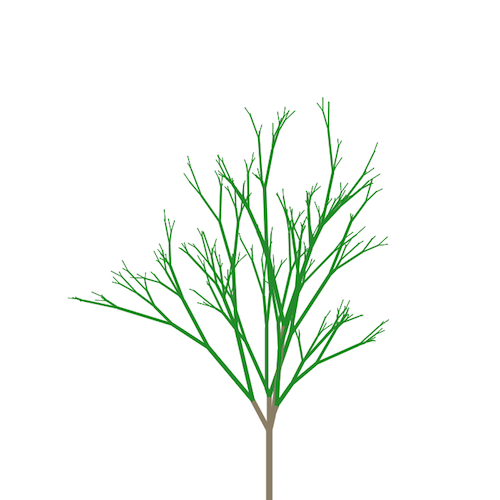
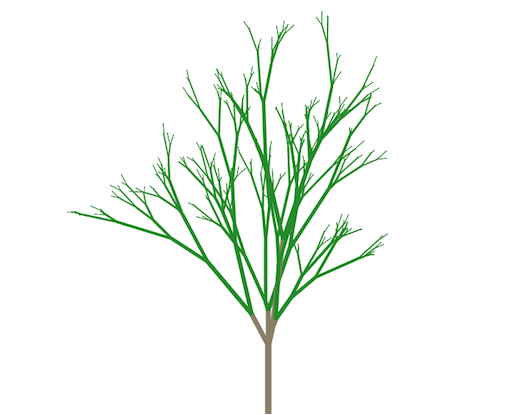
Version 1.0 complete; added notifications, working timer, event handling, and images.

Changed region(s): [[0.12, 0.0289, 0.78, 1.0], [0.75, 0.6361, 0.78, 0.6651], [0.45, 0.0578, 0.48, 0.0867]]

diff --git a/treetime_timer.js b/treetime_timer.js
@@ -1,0 +1,52 @@
+var timeInterval;
+
+function beginTimerFunction(){
+	setTimeout(startTimer() );
+}
+
+function startTimer() {
+	// processedStepValue is the number of minutes timer runs for
+	// p id = "timer" is the display the timer will be on
+
+	$(treeDeadImage).hide();
+	$(timerDial).fadeOut(1000);
+	$(responsive).delay(1000).fadeIn(1000);
+	$(timerTreeDisplayText).delay(1000).fadeIn(1000);
+	$(timerTreeDisplayTimer).delay(1000).fadeIn(1000);
+	$(treeAliveImage).delay(1000).fadeIn(1000);
+
+
+	console.log(processedStepValue);
+
+	var duration = processedStepValue * 60;
+
+    var timerNotification = new Notification('Timer started', {
+    	body: "It's treetime! Get to work!",
+    	icon: 'tree_alive.png'
+    });
+
+    window.addEventListener(visibilityChange, handleVisibilityChange, false);
+
+
+    var timer = duration, minutes, seconds;
+    
+    var timerDisplay = document.getElementById("timer");
+
+    timeInterval = setInterval(function () {
+        minutes = parseInt(timer / 60, 10)
+        seconds = parseInt(timer % 60, 10);
+
+        minutes = minutes < 10 ? "0" + minutes : minutes;
+        seconds = seconds < 10 ? "0" + seconds : seconds;
+        timerDisplay.innerHTML = minutes + ":" + seconds;
+
+        if (--timer < 0) {
+            var removeTimerNotification = new Notification('Timer finished', {
+            	body: "Your tree survived!",
+            	icon: 'tree_alive.png'
+            });
+            resetTimer();
+        }
+    }, 1000);
+
+}

diff --git a/treetime_notifications.js b/treetime_notifications.js
@@ -1,0 +1,59 @@
+var hidden = "hidden";
+var visibilityChange = "visibilitychange";
+// need to add in handlers for hidden and visibilityChange for different browsers
+
+window.onload = function() {
+	Notification.requestPermission();
+}
+
+function runKillTreeTimer(setSystemTime) {
+	var numberOfSecondsToWait = 5; // wait 5 seconds for user to come back to page before killing tree
+	
+	setTimeout(function() {
+		if(document[hidden]){
+
+			$(treeAliveImage).delay(2000).fadeOut(1000);
+			$(treeDeadImage).delay(2000).fadeIn(1000);
+
+
+			var treeKilledNotification = new Notification('Your tree died. Sorry!', {
+				body: "Better luck next time!",
+				icon: "tree_dead.png"
+			});
+			resetTimer();
+		} else {
+		}
+	}, numberOfSecondsToWait * 1000);
+
+}
+
+function resetTimer(){
+	clearInterval(timeInterval);
+
+
+
+	window.removeEventListener(visibilityChange, handleVisibilityChange, false);
+
+	$(responsive).delay(5000).fadeOut();
+	$(timerTreeDisplayText).delay(5000).fadeOut();
+	$(timerTreeDisplayTimer).delay(5000).fadeOut();
+	$(timerDial).delay(5000).fadeIn();
+}
+
+function handleVisibilityChange(){
+	if(document[hidden]) {
+		calledHandler = true;
+		var notification = new Notification('Save your tree!', {
+			body: "Switch back to this page to prevent your tree from dying!",
+			icon: "tree_alive.png"
+		});
+		notification.onclick = function() {
+			window.focus();
+			this.cancel();
+		};
+		runKillTreeTimer();
+	} else {
+		calledHandler = false;
+	}
+	
+}

diff --git a/index.html b/index.html
@@ -12,20 +12,33 @@
 	<div id = "timerDial">
 		<p id = "timerDialHelpfulText">Set the time:</p>
 		<input type="text" value="10" class="dial">
-		<p id = "timerDialDisplay">00:00</p>
-		<button id = "setTimerButton">Set Time</button>
+		<p id = "timerDialDisplay">15:00</p>
+		<button id = "setTimerButton" onclick = "beginTimerFunction()">Set Time</button>
 	</div>
 
-	<div id = "timerTreeDisplay">
-		<img src = "tree_alive.png" id = "treeAliveImage">
-		<img src = "tree_dead.png" id = "treeDeadImage">
-		<button id = "showTreesButton">click to show trees</button>
+	<div id = "timerTreeDisplayText">
+		<p>Stay on this page to avoid killing the tree!</p>
 	</div>
-	
+
+	<div class = "responsive" id = "responsive">
+		<div class = "img-container">
+			<img src = "tree_alive.png" id = "treeAliveImage">
+			<img src = "tree_dead.png" id = "treeDeadImage">
+		</div>	
+	</div>
+
+	<div id = "timerTreeDisplayTimer">
+		<p id = "timer">TEST</p>
+	</div>
+
+
+
 	<script src = "http://ajax.googleapis.com/ajax/libs/jquery/1/jquery.min.js"></script>
 	<script src="jquery.knob.min.js"></script>
 	<script src = "treetime_animations.js"></script>
 	<script src = "treetime_knob.js"></script>
+	<script src = "treetime_timer.js"></script>
+	<script src = "treetime_notifications.js"></script>
 	<script src = "treetime_timer.js"></script>
 </body>
 </html>

diff --git a/style.css b/style.css
@@ -28,20 +28,6 @@ p {
     font-size: 16px;
 }
 
-#timerTreeDisplay {
-	right: 12%;
-	margin-top: -300px;
-	position: absolute;
-	text-align: center;
-	top: 50%;
-	width: 100%;
-}
-
-#treeAliveImage, #treeDeadImage{
-	position: absolute;
-	display: none;
-}
-
 #timerDial {
 	left: 0;
 	margin-top: -300px;
@@ -50,3 +36,40 @@ p {
 	top: 60%;
 	width: 100%;
 }
+
+#timerTreeDisplayText {
+	left: 0;
+	margin: auto;
+	position: absolute;
+	text-align: center;
+	top: 17vh;
+	width: 100%;
+}
+
+#timerTreeDisplayTimer {
+	left: 0;
+	margin: auto;
+	position: absolute;
+	text-align: center;
+	bottom: 15vh;
+	width: 100%;
+}
+
+.responsive {
+	margin: auto;
+	position: absolute;
+	top: 0; left: 0; right: 0; bottom: 0;
+}
+
+#treeAliveImage, #treeDeadImage{
+	margin: auto;
+	top: 0; left: 0; right: 0; bottom: 0;
+	/*min-width: 525px;*/
+	/*min-height: 500px;*/
+	max-width: 40vw;
+	max-height: 40vh;
+	position: absolute;
+
+	display: none;
+}
+

diff --git a/treetime_knob.js b/treetime_knob.js
@@ -1,3 +1,5 @@
+var processedStepValue = 15; // CHANGE BACK TO 15 WHEN DONE DEBUGGING
+
 $('.dial').knob({
 	 'min': 10,
   	'max': 90,
@@ -11,8 +13,7 @@ $('.dial').knob({
   	'change': function(value) {
   		var offset = 0;
   		var increment = 5;
-  		var processedStepValue = Math.ceil((value - offset) / increment ) * increment + offset;
-  		// console.log(processedStepValue);
+  		processedStepValue = Math.ceil((value - offset) / increment ) * increment + offset;
   		var para = document.getElementById("timerDialDisplay");
   		para.innerHTML = processedStepValue + ":00";
   	}

diff --git a/treetime_animations.js b/treetime_animations.js
@@ -1,18 +1,10 @@
 $(document).ready(function() {
 	$(introText).delay(3000).fadeOut(1000);
 	$(timerDial).hide().delay(4000).fadeIn(1000);
-	$(timerTreeDisplay).hide();
 
-	$(setTimerButton).click(function(){
-		$(timerDial).fadeOut(1000);
-		$(timerTreeDisplay).delay(1000).fadeIn(1000);
-	})
-
-	$(showTreesButton).click(function(){
-		$(treeAliveImage).fadeIn(1000).delay(1000).fadeOut(1000);
-		$(treeDeadImage).delay(2000).fadeIn(1000);
-
-	})
+	$(responsive).hide();
+	$(timerTreeDisplayText).hide();
+	$(timerTreeDisplayTimer).hide();
 
 })
 
